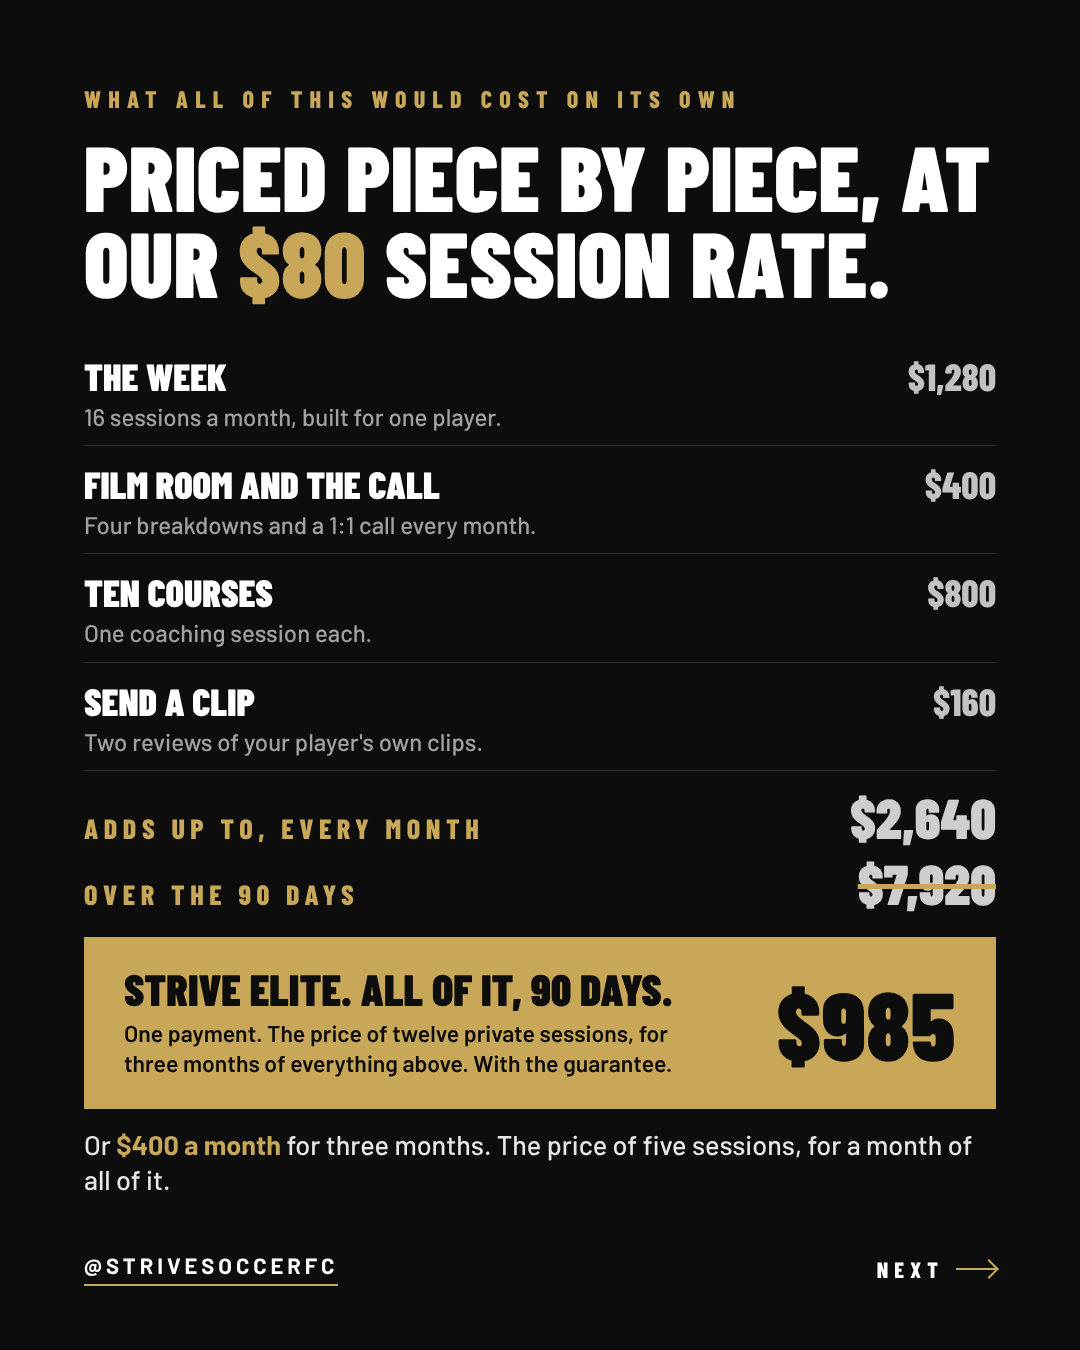
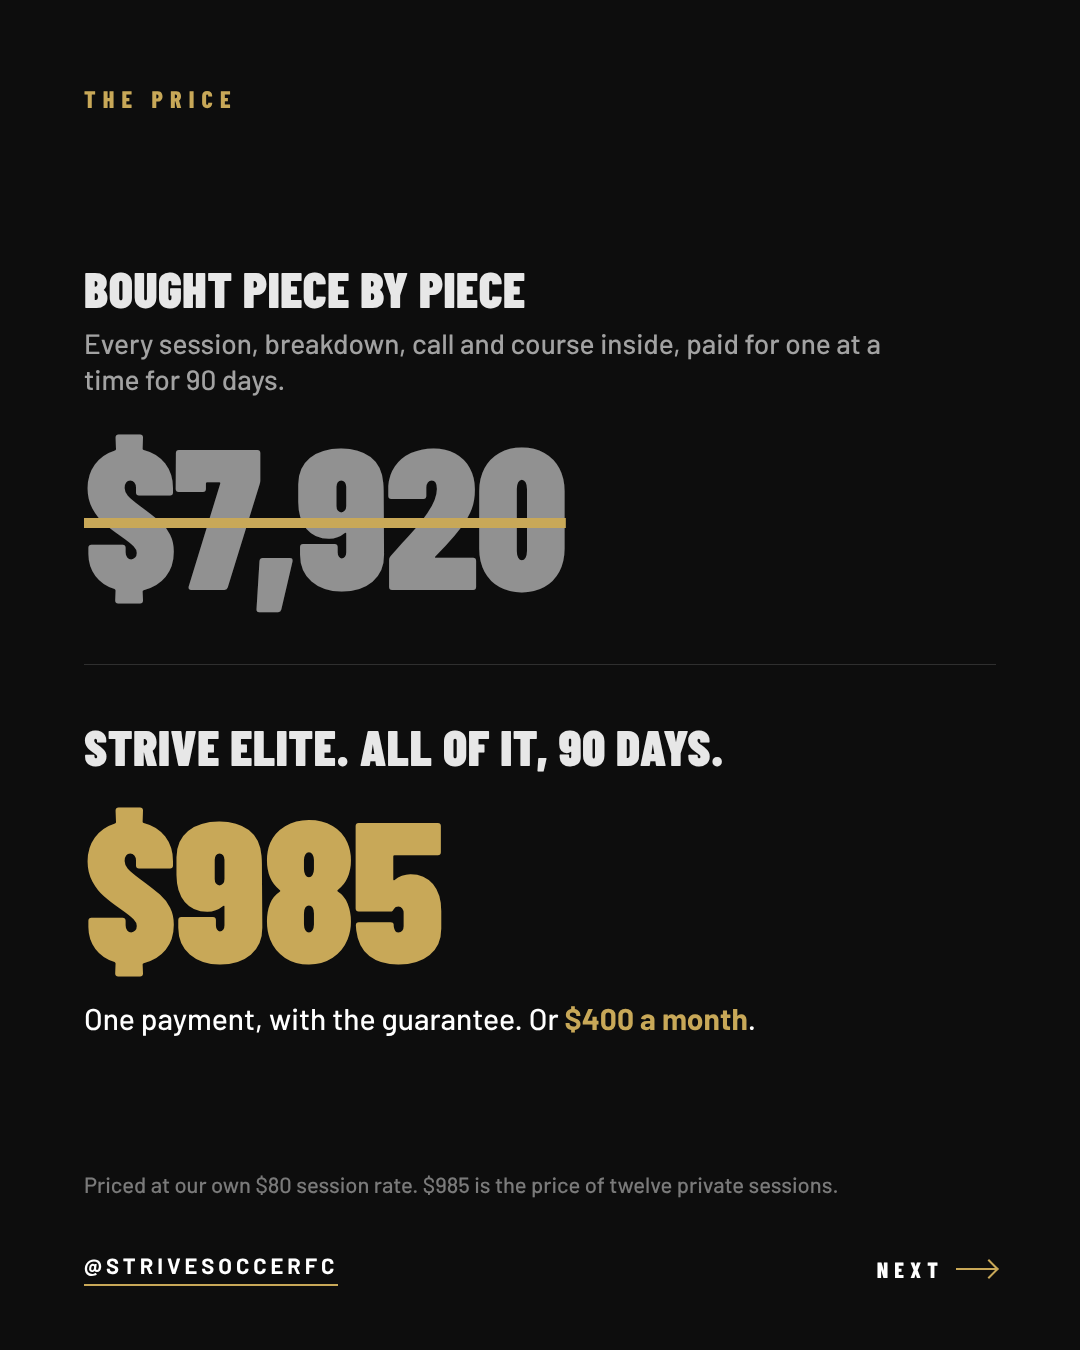
Offer carousel: the price as two numbers
Claude-Session: https://claude.ai/code/session_011JsCTTjCbUkHbTuWTKQSXJ

diff --git a/marketing/announcement/offer-post/costdrop.html b/marketing/announcement/offer-post/costdrop.html
@@ -2,53 +2,46 @@
 <title>The cost drop (1080x1350)</title>
 <link rel="stylesheet" href="../../covers/strive-elite-meeting/fonts.css">
 <style>
-/* Slide: the cost drop. Every coach touch priced at Strive's own confirmed $80 private-session rate (the offer deck's rule, Oct 29), then the real price. Ten courses now on the post, so the stack is $2,640 (was $2,320 with six). */
+/* Slide: the cost drop, cut to two numbers (Coach Yinka, Nov 4 2026: "The
+   pricing page must be easier to ingest, less can be more"). Everything
+   inside, bought one session at a time for 90 days at Strive's own
+   confirmed $80 rate ($2,640 a month x 3 = $7,920), struck through; then
+   $985. The itemised table lives in the record (strive-elite-offer-post.md). */
 *{box-sizing:border-box;margin:0;padding:0}
 html,body{width:1080px;height:1350px;background:#0d0d0d;overflow:hidden}
 body{font-family:'Barlow',sans-serif;color:#fff;position:relative;padding:84px 84px 0}
-.gold{color:#c8a858}
-.bign{position:absolute;right:48px;top:10px;font-family:'Barlow Condensed';font-weight:900;font-size:420px;line-height:1;color:rgba(255,255,255,.035);letter-spacing:-.02em}
 .eyebrow{font-family:'Barlow Condensed';font-weight:800;font-size:24px;letter-spacing:.3em;text-transform:uppercase;color:#c8a858}
-h1{font-family:'Barlow Condensed';font-weight:900;font-size:92px;line-height:.93;text-transform:uppercase;margin-top:20px;letter-spacing:.005em;position:relative}
-h1 span{color:#c8a858}
-.lab{font-family:'Barlow Condensed';font-weight:800;font-size:22px;letter-spacing:.24em;text-transform:uppercase;color:#c8a858;margin-top:54px;padding-bottom:10px;border-bottom:1px solid rgba(255,255,255,.14)}
-.prob{margin-top:22px;font-size:33px;line-height:1.3;font-weight:500;color:rgba(255,255,255,.88);max-width:900px}
-.item{padding:16px 0 14px;border-bottom:1px solid rgba(255,255,255,.14);display:flex;gap:26px;align-items:baseline}
-.item b{font-family:'Barlow Condensed';font-weight:900;font-size:40px;line-height:1;text-transform:uppercase;white-space:nowrap}
-.item p{font-size:25px;line-height:1.3;color:rgba(255,255,255,.62)}
+.block{margin-top:150px}
+.lab{font-family:'Barlow Condensed';font-weight:900;font-size:50px;line-height:1;text-transform:uppercase;letter-spacing:.01em;color:rgba(255,255,255,.9)}
+.sub{margin-top:12px;font-size:28px;line-height:1.3;font-weight:500;color:rgba(255,255,255,.62);max-width:800px}
+.num{margin-top:22px;font-family:'Barlow Condensed';font-weight:900;font-size:200px;line-height:.9;letter-spacing:-.01em}
+.num.strike{color:rgba(255,255,255,.55);text-decoration:line-through;text-decoration-color:#c8a858;text-decoration-thickness:10px}
+.rule{height:1px;background:rgba(255,255,255,.14);margin:64px 0 56px}
+.num.gold{color:#c8a858}
+.alt{margin-top:26px;font-size:30px;line-height:1.3;font-weight:500;color:#fff}
+.alt b{color:#c8a858;font-weight:700}
+.fine{position:absolute;left:84px;right:84px;bottom:150px;font-size:22px;line-height:1.4;color:rgba(255,255,255,.45)}
 .bar{position:absolute;left:84px;right:84px;bottom:64px;display:flex;align-items:center;justify-content:space-between}
 .handle{font-weight:700;font-size:22px;letter-spacing:.18em;text-transform:uppercase}
 .handle:after{content:"";display:block;height:2px;width:100%;background:#c8a858;margin-top:6px}
 .swipe{font-family:'Barlow Condensed';font-weight:800;font-size:22px;letter-spacing:.28em;text-transform:uppercase;display:flex;align-items:center;gap:12px}
 .swipe i{display:block;width:40px;height:2px;background:#c8a858;position:relative}
 .swipe i:after{content:"";position:absolute;right:0;top:-6px;width:12px;height:12px;border-top:2px solid #c8a858;border-right:2px solid #c8a858;transform:rotate(45deg)}
-.row{display:flex;justify-content:space-between;align-items:baseline;padding:15px 0 13px;border-bottom:1px solid rgba(255,255,255,.14)}
-.row b{font-family:'Barlow Condensed';font-weight:900;font-size:38px;line-height:1;text-transform:uppercase}
-.row p{font-size:24px;line-height:1.3;color:rgba(255,255,255,.62);margin-top:6px}
-.row .v{font-family:'Barlow Condensed';font-weight:800;font-size:38px;color:rgba(255,255,255,.75);white-space:nowrap;padding-left:30px}
-.tot{display:flex;justify-content:space-between;align-items:baseline;padding:18px 0 0}
-.tot.ninety{padding-top:10px}
-.tot.ninety .v{text-decoration:line-through;text-decoration-color:#c8a858;text-decoration-thickness:5px}
-.alt{margin-top:18px;font-size:27px;line-height:1.3;font-weight:500;color:rgba(255,255,255,.9)}
-.alt b{color:#c8a858;font-weight:700}
-.tot b{font-family:'Barlow Condensed';font-weight:800;font-size:28px;letter-spacing:.2em;text-transform:uppercase;color:#c8a858}
-.tot .v{font-family:'Barlow Condensed';font-weight:900;font-size:56px;line-height:1;color:rgba(255,255,255,.8)}
-.drop{margin-top:26px;padding:30px 40px;background:#c8a858;color:#0d0d0d;display:flex;justify-content:space-between;align-items:center}
-.drop .l b{display:block;font-family:'Barlow Condensed';font-weight:900;font-size:44px;line-height:1;text-transform:uppercase}
-.drop .l p{margin-top:8px;font-size:23px;line-height:1.3;font-weight:600;max-width:600px}
-.drop .r{font-family:'Barlow Condensed';font-weight:900;font-size:96px;line-height:1;letter-spacing:.01em;white-space:nowrap}
-.drop .r small{font-size:34px;font-weight:800;letter-spacing:.04em}
 </style>
-<div class="eyebrow">What all of this would cost on its own</div>
-<h1>Priced piece by piece, at our <span>$80</span> session rate.</h1>
-<div style="margin-top:34px">
-<div class="row"><div><b>The week</b><p>16 sessions a month, built for one player.</p></div><div class="v">$1,280</div></div>
-<div class="row"><div><b>Film Room and the call</b><p>Four breakdowns and a 1:1 call every month.</p></div><div class="v">$400</div></div>
-<div class="row"><div><b>Ten courses</b><p>One coaching session each.</p></div><div class="v">$800</div></div>
-<div class="row"><div><b>Send a Clip</b><p>Two reviews of your player's own clips.</p></div><div class="v">$160</div></div>
-<div class="tot"><b>Adds up to, every month</b><div class="v">$2,640</div></div>
-<div class="tot ninety"><b>Over the 90 days</b><div class="v">$7,920</div></div>
+<div class="eyebrow">The price</div>
+
+<div class="block">
+  <div class="lab">Bought piece by piece</div>
+  <p class="sub">Every session, breakdown, call and course inside, paid for one at a time for 90 days.</p>
+  <div class="num strike">$7,920</div>
 </div>
-<div class="drop"><div class="l"><b>Strive Elite. All of it, 90 days.</b><p>One payment. The price of twelve private sessions, for three months of everything above. With the guarantee.</p></div><div class="r">$985</div></div>
-<p class="alt">Or <b>$400 a month</b> for three months. The price of five sessions, for a month of all of it.</p>
+
+<div class="rule"></div>
+
+<div class="lab">Strive Elite. All of it, 90 days.</div>
+<div class="num gold">$985</div>
+<p class="alt">One payment, with the guarantee. Or <b>$400 a month</b>.</p>
+
+<p class="fine">Priced at our own $80 session rate. $985 is the price of twelve private sessions.</p>
+
 <div class="bar"><div class="handle">@strivesoccerfc</div><div class="swipe">Next <i></i></div></div>

diff --git a/CLAUDE.md b/CLAUDE.md
@@ -3515,6 +3515,16 @@ commit.
       months. The price of five sessions, for a month of all of it."
       FINAL REVISION sent, ten slides: cover, five steps, recap,
       guarantee, cost drop, close. Not posted.
+      THEN (Coach Yinka: "The pricing page must be easier to ingest,
+      less can be more"): THE COST DROP IS TWO NUMBERS. Eyebrow "The
+      price"; "Bought piece by piece" with one line ("Every session,
+      breakdown, call and course inside, paid for one at a time for
+      90 days.") over $7,920 struck through at 200 px; a rule; "Strive
+      Elite. All of it, 90 days." over $985 in gold at 200 px; "One
+      payment, with the guarantee. Or $400 a month."; fine print
+      "Priced at our own $80 session rate. $985 is the price of twelve
+      private sessions." The itemised table is gone from the slide
+      and lives in strive-elite-offer-post.md. Sent.
 
 ## Growth target (stamped Sept 19, Coach Yinka's own call)
 
